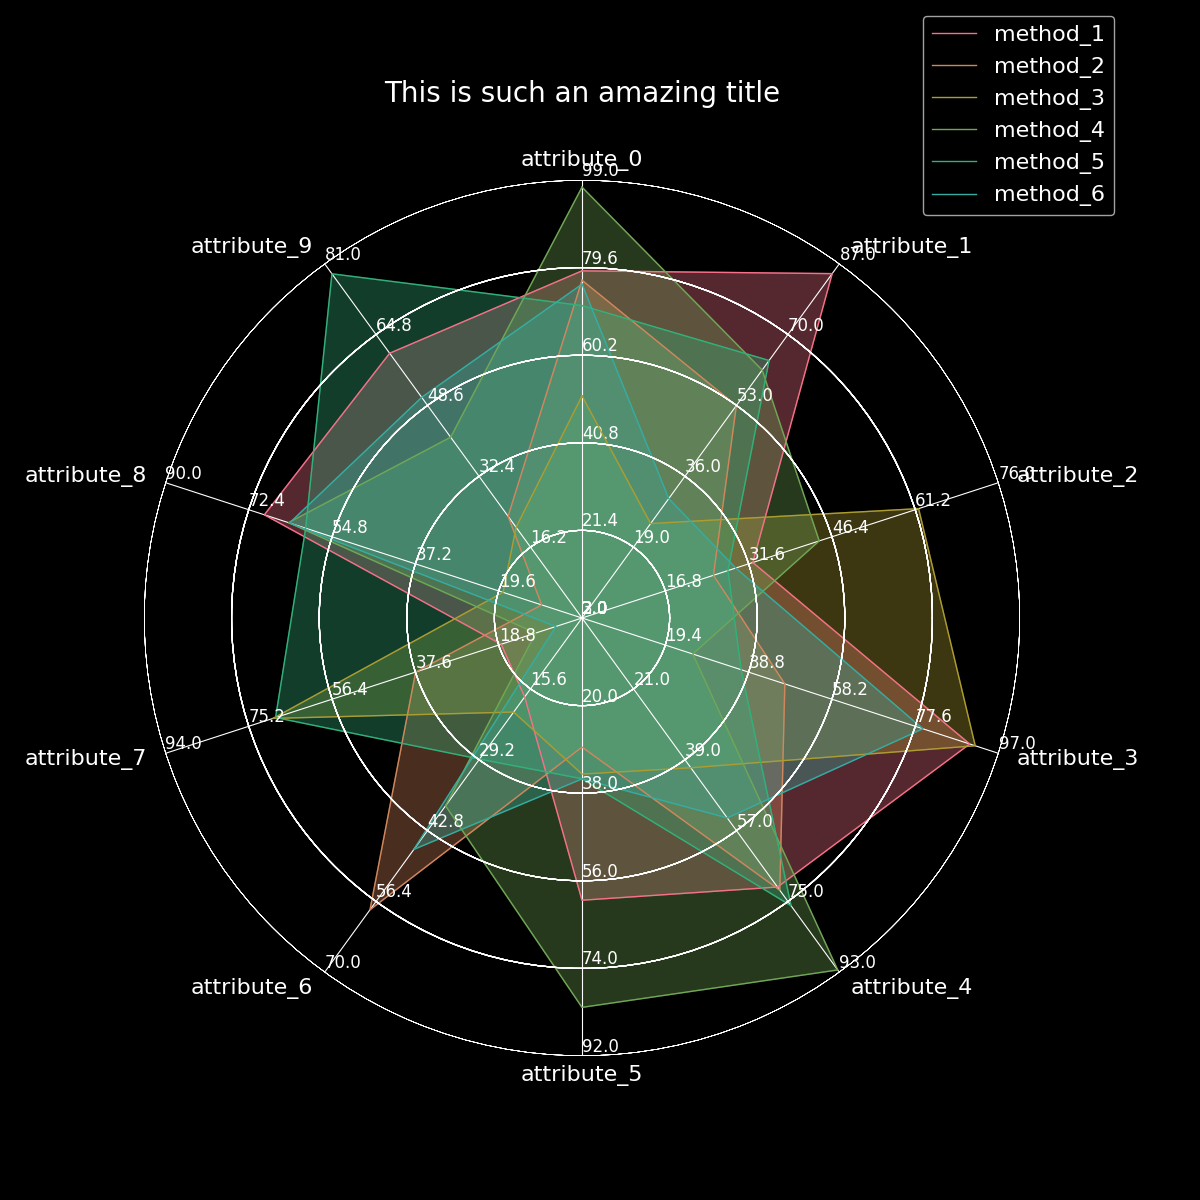
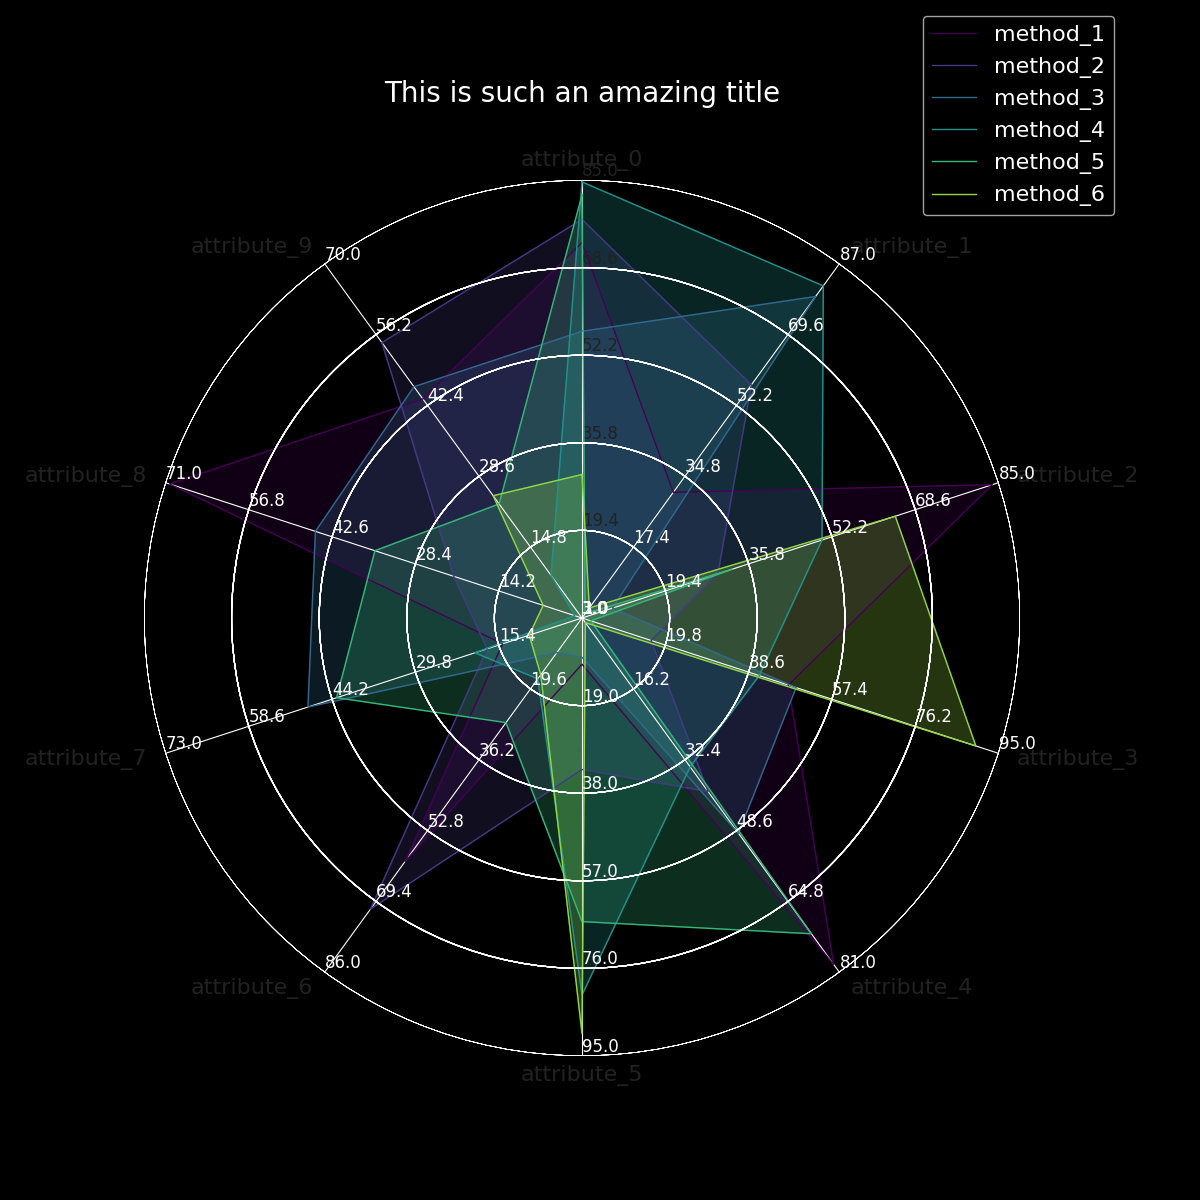
update

diff --git a/download/radar_plot.py b/download/radar_plot.py
@@ -3,6 +3,7 @@ import matplotlib.pyplot as plt
 import numpy as np
 import pandas as pd
 
+
 def color_extend(n_color):
 
     colors = ((246, 112, 136), (173, 156, 49), (51, 176, 122), (56, 168, 197), (204, 121, 244))
@@ -20,15 +21,112 @@ def color_extend(n_color):
     return colors_long
 
 
-def radar_plot(values, labels, instance_names, title='Nice title', color_map='default',
-               fig_size=(14, 14), label_size=14, title_size=20, legend_size=14, style='seaborn-v0_8-colorblind',
+# def radar_plot(values, labels, instance_names, title='Nice title', color_map='default',
+#                fig_size=(14, 14), label_size=14, title_size=20, legend_size=14, style='seaborn-v0_8-colorblind',
+#                save_dir=None, labels_ticks=None):
+
+#     num_vars = len(labels)
+#     num_instance = len(values)
+#     if color_map == 'default':
+#         color_map = color_extend(num_instance)
+
+#     angles = np.linspace(0, 2 * np.pi, num_vars, endpoint=False).tolist()
+#     angles += angles[:1]
+
+#     plt.style.use(style)
+#     fig = plt.figure(figsize=fig_size)
+#     rect = [0.12, 0.12, 0.73, 0.73]
+
+#     if labels_ticks is None:
+#         ax = fig.add_axes(rect, projection="polar", label="axes")
+#         ax.set_rlabel_position(180 / num_vars)
+#         x = np.linspace(0, 1, 5)
+#         ax.set_rgrids(x, labels=x, fontsize=12, angle=180 / num_vars)
+#         ax.set_ylim(0, 1)
+#     else:
+#         axes = [fig.add_axes(rect, projection="polar", label="axes%d" % i)
+#                 for i in range(num_vars)]
+#         ax = axes[0]
+#         for ax_i in axes[1:]:
+#             ax_i.patch.set_visible(False)
+#             ax_i.grid("off")
+#             ax_i.xaxis.set_visible(False)
+
+#         for i, (tick, ax_i, ag) in enumerate(zip(labels_ticks, axes, angles)):
+#             low, high = tick
+#             assert low < high
+#             x = np.linspace(0, 1, 6)
+#             y = np.linspace(low, high, 6)
+#             y = [f'{x:.1f}' for x in y]
+#             if low == 0:
+#                 x = x[1:]
+#                 y = y[1:]
+
+#             if i == 0:
+#                 ax_i.set_rgrids(x, labels=y, fontsize=label_size, angle=0)
+#             else:
+#                 ax_i.set_rgrids(x, labels=y, fontsize=label_size, angle=90 - i * 360 / num_vars)
+#             ax_i.spines["polar"].set_visible(False)
+#             ax_i.tick_params(axis='y', labelsize=label_size - 4)
+#             ax_i.set_ylim(0, 1)
+
+
+#     # draw solid white grid lines
+#     # plt.grid(color=(0.96, 0.96, 0.96), linestyle='dashed')
+
+#     for i in range(num_instance):
+#         v = values[i]
+#         v += v[:1]
+#         ax.plot(angles, v, color=color_map[i], linewidth=1, label=instance_names[i])
+#         ax.fill(angles, v, color=color_map[i], alpha=0.35)
+
+#     # Fix axis to go in the right order and start at 12 o'clock.
+#     ax.set_theta_offset(np.pi / 2)
+#     ax.set_theta_direction(-1)
+
+#     # Draw axis lines for each angle and label.
+#     ax.set_thetagrids(np.degrees(angles)[:-1], labels)
+
+#     for label, angle in zip(ax.get_xticklabels(), angles):
+#         if angle in (0, np.pi):
+#             label.set_horizontalalignment('center')
+#         elif 0 < angle < np.pi:
+#             label.set_horizontalalignment('left')
+#         else:
+#             label.set_horizontalalignment('right')
+
+#     # ax.tick_params(colors='#222222')
+#     ax.tick_params(axis='y', labelsize=label_size-4)
+#     ax.tick_params(axis='x', labelsize=label_size)
+
+#     ax.set_title(title, y=1.08)
+#     ax.title.set_size(title_size)
+#     ax.legend(loc='upper right', bbox_to_anchor=(1.12, 1.2), fontsize=legend_size)
+
+#     plt.tight_layout()
+
+#     if save_dir is not None:
+#         plt.savefig(save_dir)
+#     else:
+#         plt.show()
+
+
+import numpy as np
+import matplotlib.pyplot as plt
+
+def radar_plot(values, labels, instance_names, title='Nice title', color_map='viridis',
+               fig_size=(14, 14), label_size=14, title_size=20, legend_size=14, style='seaborn',
                save_dir=None, labels_ticks=None):
 
     num_vars = len(labels)
     num_instance = len(values)
-    if color_map == 'default':
-        color_map = color_extend(num_instance)
-
+    
+    # Handling color map selection
+    if isinstance(color_map, str):
+        color_map = plt.get_cmap(color_map)
+    else:
+        color_map = plt.cm.get_cmap(color_map)
+    
     angles = np.linspace(0, 2 * np.pi, num_vars, endpoint=False).tolist()
     angles += angles[:1]
 
@@ -69,21 +167,15 @@ def radar_plot(values, labels, instance_names, title='Nice title', color_map='de
             ax_i.tick_params(axis='y', labelsize=label_size - 4)
             ax_i.set_ylim(0, 1)
 
-
-    # draw solid white grid lines
-    # plt.grid(color=(0.96, 0.96, 0.96), linestyle='dashed')
-
     for i in range(num_instance):
         v = values[i]
         v += v[:1]
-        ax.plot(angles, v, color=color_map[i], linewidth=1, label=instance_names[i])
-        ax.fill(angles, v, color=color_map[i], alpha=0.25)
+        ax.plot(angles, v, color=color_map(i / num_instance), linewidth=1, label=instance_names[i])
+        ax.fill(angles, v, color=color_map(i / num_instance), alpha=0.25)
 
-    # Fix axis to go in the right order and start at 12 o'clock.
     ax.set_theta_offset(np.pi / 2)
     ax.set_theta_direction(-1)
 
-    # Draw axis lines for each angle and label.
     ax.set_thetagrids(np.degrees(angles)[:-1], labels)
 
     for label, angle in zip(ax.get_xticklabels(), angles):
@@ -106,6 +198,7 @@ def radar_plot(values, labels, instance_names, title='Nice title', color_map='de
 
     if save_dir is not None:
         plt.savefig(save_dir)
+        plt.show()
     else:
         plt.show()
 
@@ -116,11 +209,11 @@ if __name__ == "__main__":
     print('plot art style:', all_theme)
 
     num_vars = 10
-    n_method = 5
+    n_method = 6
     n_ticks = 5
     labels = [f'attribute_{x}' for x in range(num_vars)]
     instance_names = [f'method_{i + 1}' for i in range(n_method)]
-    values = [[0.2 + 0.8 * random.random() for x in range(num_vars)] for i in range(n_method)]
+    values = [[1 * random.random() for x in range(num_vars)] for i in range(n_method)]
     df = pd.DataFrame(columns=labels, data=values, index=instance_names)
     print('synthetic data:\n', df)
 
@@ -131,6 +224,6 @@ if __name__ == "__main__":
         labels_ticks.append((low, high))
         print(f'{attribute} range: (min: {low}, max: {high}):')
 
-    radar_plot(values, labels, instance_names, title=f'This is such an amazing title', color_map='default',
-               fig_size=(12, 12), label_size=16, title_size=20, legend_size=16, style="seaborn-v0_8-colorblind",
-               labels_ticks=labels_ticks, save_dir='test.png')
+    radar_plot(values, labels, instance_names, title=f'This is such an amazing title',
+               fig_size=(12, 12), label_size=16, title_size=20, legend_size=16, style="dark_background",
+               labels_ticks=labels_ticks, save_dir='dark.png')

diff --git a/_tabs/CV.md b/_tabs/CV.md
@@ -1,6 +1,6 @@
 ---
 # the default layout is 'page'
-title: Résumé
+title: CV
 icon: fas fa-address-card
 order: 1
 ---
